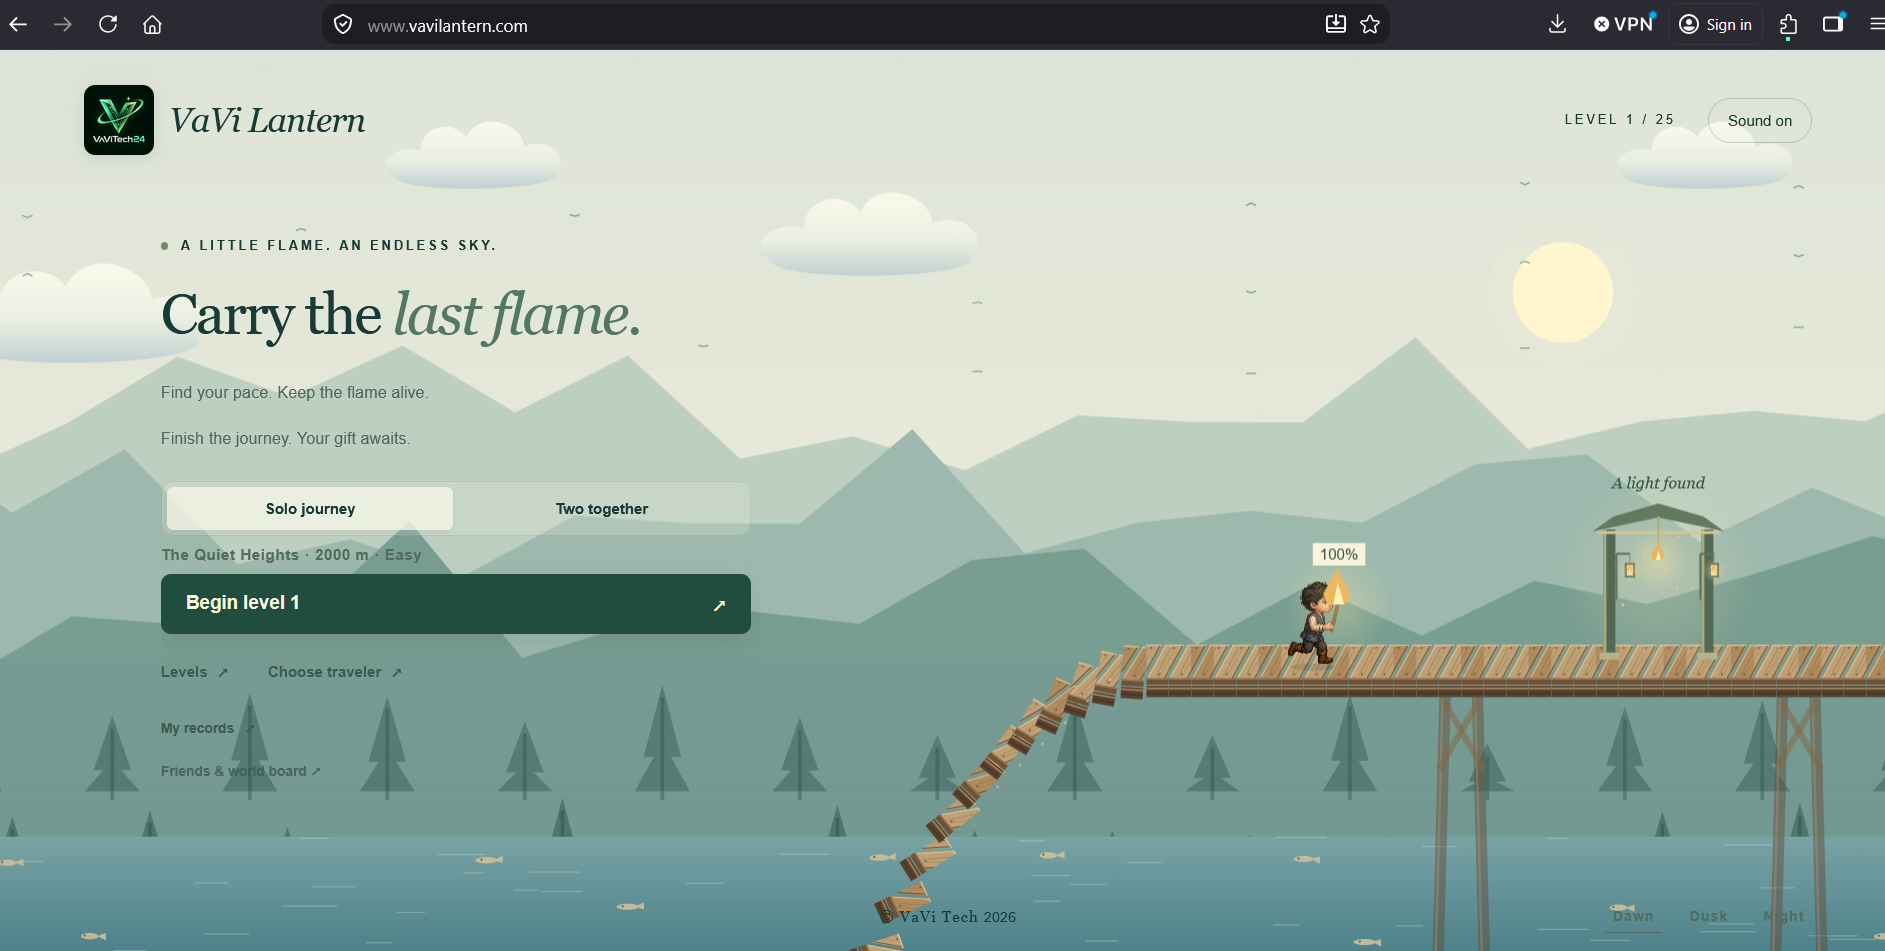
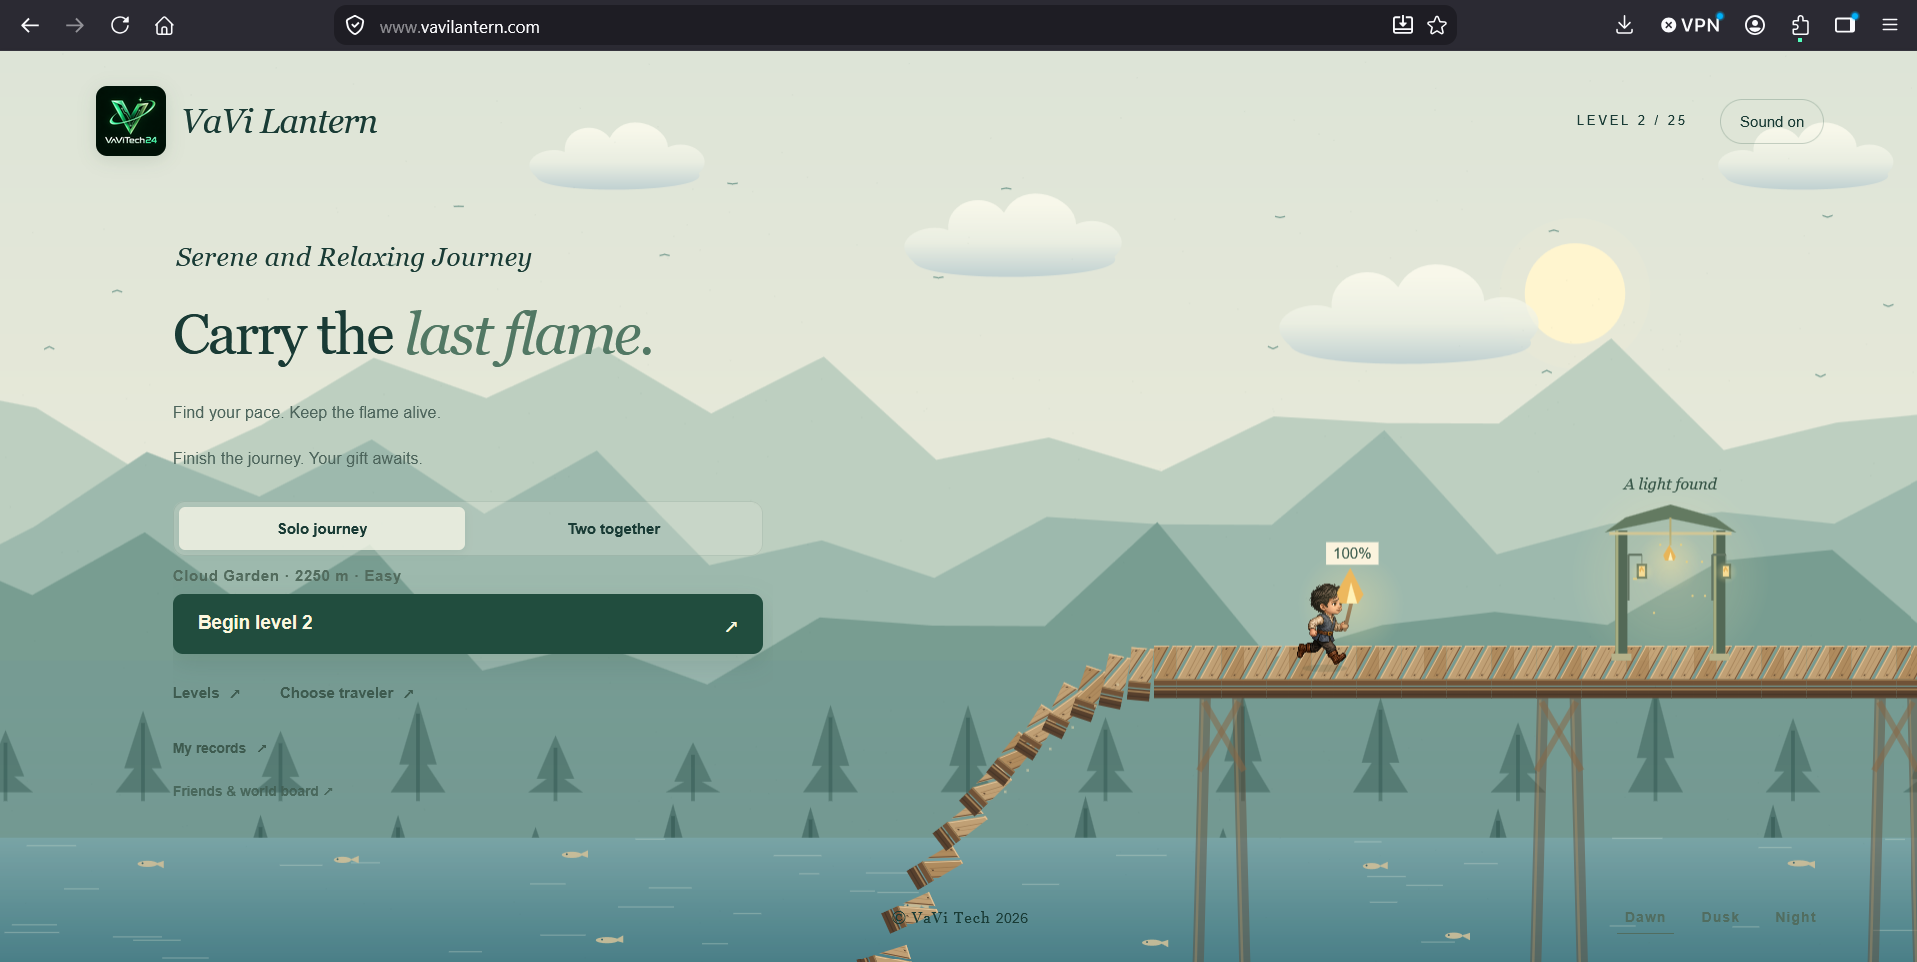
Refresh desktop and portrait dawn screenshots

diff --git a/docs/SCREENSHOTS.md b/docs/SCREENSHOTS.md
@@ -4,6 +4,8 @@ Screenshots supplied by the project owner on September 8–9, 2026. These origin
 
 [Play VaVi Lantern](https://vavilantern.com/) · [Back to the project](../README.md) · [Desktop files](screenshots/2026-09-08/) · [Mobile files](screenshots/2026-09-09-mobile/)
 
+The desktop and portrait dawn home screenshots were refreshed on September 9, 2026 with the new “Serene and Relaxing Journey” tagline. Existing image paths are retained so README and gallery links remain stable.
+
 ## Portrait mobile screenshots
 
 Supplied September 9, 2026. Select an image to view its original resolution.
